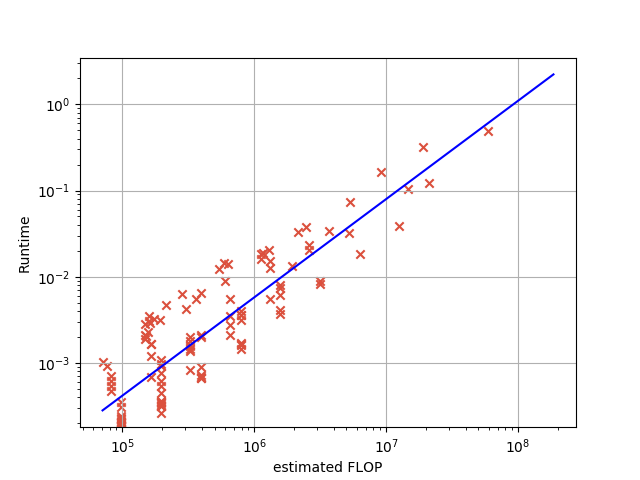
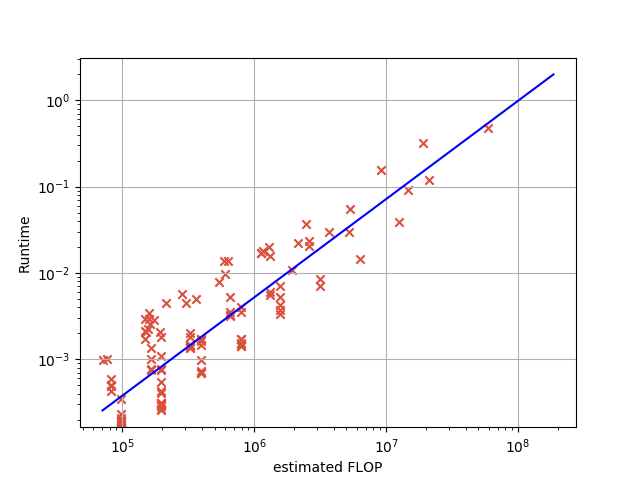
[jlse-results] for `[jlse-run] Merge remote-tracking branch 'origin/exatn' into exatn`

diff --git a/run/automake/results/result.md b/run/automake/results/result.md
@@ -1,15 +1,15 @@
 ## Automake run result
 ### Performance summary:
 ===Results===
-Total time: 2.4037
-Simulator fitted flops: 1.204 G
-Matmul flops: 442.24 G
-Simulator optimality: 0.002722635885697399
+Total time: 2.0027
+Simulator fitted flops: 1.3026 G
+Matmul flops: 591.27 G
+Simulator optimality: 0.0022030887121806233
 \n
 \n
 Backend used: mkl (contraction only)
 \n
 ### Performance plot:
-![](https://asset.cml.dev/1c4b1e9357bcc15ad33727f25111a6febb530c0b)
+![](https://asset.cml.dev/503075ff2f9ecf4bb29b74913ca2972c3737448c)
 \n
-Run date: Fri Oct  9 10:36:17 UTC 2020
+Run date: Fri Oct  9 10:41:24 UTC 2020
